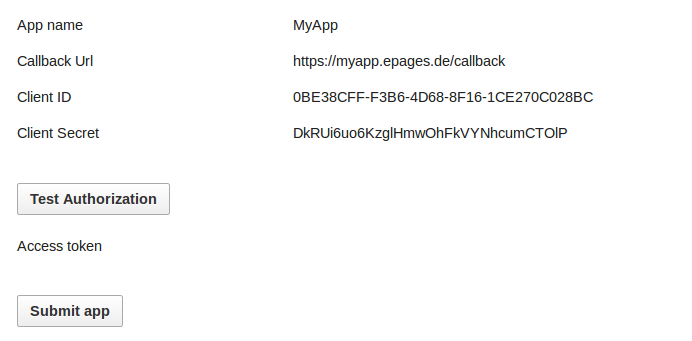
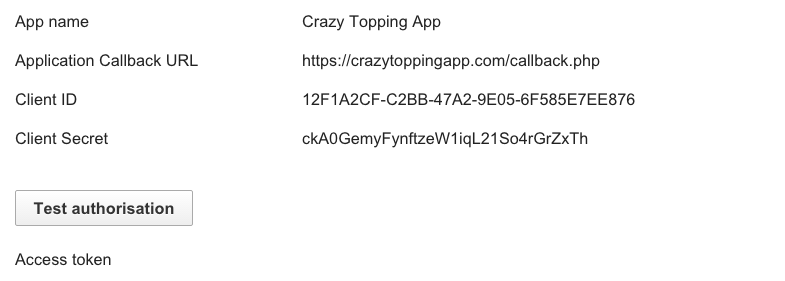
Some amendments to PHP tutorial
* TW-80
* some rewording with regards to consistency and style
* update screenshot

diff --git a/apps/app-tutorial-php.md b/apps/app-tutorial-php.md
@@ -1,120 +1,119 @@
 ---
 layout: page
 key: apps-tutorial-php
-title: App Tutorial (PHP)
+title: Tutorial (PHP)
 ---
 
-The general page about [creating an app](page:apps-create) explains some of the concepts and the basic workflow, which is required to develop an app.
-This includes the most crucial part, the Auth2 token exchange.
+The general section about [creating an app](page:apps-create) explains some of the concepts and the basic workflow required to develop an app.
+We also take care of the most crucial part, the [OAuth 2.0 token exchange](page:apps-install).
 
-On this page we are going into more detail and explain exactly how you can implement this.
-We are using PHP, but the functionality is very simple and can easily be implemented in any other language.
+With this tutorial, we are going into more detail and explain exactly how you can implement all this in practice.
+We are using PHP, but the functionality is very simple and can easily be implemented with any other coding language.
 
-You will see how the OAuth2 exchange is done to get your access token and how you can use it to make API calls.
+You will see how the OAuth 2.0 exchange is done to get your access token and how you can use it to make API calls.
 
 # Prerequisites
 
 In order to get this code working, you need to setup your development environment:
 
-- PHP 5.2+
-- publicly reachable server
+* PHP 5.2+
+* publicly reachable server
 
-### Sign up for an ePages Test Shop
+## Sign up for an ePages test shop
 
-Simply go on [our website][epages-demo-signup] and sign up for a free account.
+Simply sign up [here](http://www.epages.com/en/partner/developer-program/) for a free account.
 
-### Create a Developer App
+## Create a developer app
 
-In order to create an app, test it and submit it to the App Store, you have to create a developer app.
+In order to create an app, to test it and to submit it to the App & Theme Store, you have to create a developer app.
 
-Go to the **Developer App** section in our **Apps & Themes** Store and [create a new developer app](page:apps-create) by clicking on **Add**.
+Go to the **Developer apps** view on the tab **Apps & Themes** and [create a new developer app](page:apps-create) by clicking **Add**.
 
-After choosing a name to your liking, you need to set the callback URL to your publicly available PHP script (e.g. `https://myapp.com/callback.php`), which we will implement later.
+After choosing a name to your liking, you need to set the **Application Callback URL** to your publicly available PHP script (e.g. `https://crazytoppingapp.com/callback.php`), which we will implement later.
 
 {% callout info Note: %}
-We allow HTTP callback URLs for developer apps, but you need to provide an HTTPS URL once you want to submit the app to the App Store.
+We allow HTTP Application Callback URLs for developer apps, but you need to provide an HTTPS URL once you want to submit the app to the App & Theme Store.
 {% endcallout %}
 
-Once you are done with that, the detail page will show your **client credentials**.
+Once you are done with that, the detail page will show your client credentials.
 
 {% image developer-app-details.png %}{% endimage %}
 
-As you can see, there is no access token right away.
-You have to go through the installation process first to acquire one.
+As you can see, there is no **Access token** right away.
+You have to go through the [installation process](page:apps-install) first to acquire one.
 
-The **Test Authorisation**-Button basically simulates an installation by a user - in this case yourself.
-After the token exchange is done, you will receive an access token, which will also be displayed on this page.
+The **Test authorisation** button basically simulates an installation by a user - in this case yourself.
+After the token exchange is done, you will receive an **Access token**, which will also be displayed on this page.
 
 {% callout info Note: %}
 Any subsequent calls will uninstall the app and reinitiate the installation process, which will result in a new access token (and invalidation of the old access token).
 {% endcallout %}
 
-# Getting an Access Token
+# Getting an access token
 
-For a more general overview of the installation process and the OAuth2 token exchange, we recommend you to read the [installation page](page:apps-install) first.
+For a more general overview of the installation process and the OAuth 2.0 token exchange, we recommend you to read though the [installation process](page:apps-install) first.
 
 Now that everything is in place, we can actually start coding.
 We will create the mentioned `callback.php` file, which will be called when a user installs an app.
 
-### Setting credentials
+## Setting credentials
 
-The first thing we will do is set the client credentials you got from the developer app detail page.
+The first thing we will do is set the **client credentials** (`client_id` and `client_secret`) you got from the developer app detail page.
 
     <?php
 
     $client_id     = '0BE38CFF-F3B6-4D68-8F16-1CE270C028BC';
     $client_secret = 'DkRUi6uo6KzglHmwOhFkVYNhcumCTOlP';
 
+## Listen for callback
 
-### Listen for Callback
+Next, you need to listen for a request to get the `authorization_code`, which you can exchange for an access token.
+The call, which you can trigger with the **Test authorisation** button, will look like this:
 
-Next, you need to listen for a request to get the **authorization code**, which you can exchange for an access token.
-The call, which you can trigger with the **Test Authorization** button, will look like this:
+https://crazytoppingapp.com/callback.php?code=*{authorization_code}*&access_token_url=*{access_token_url}*&api_url=*{api_url}*
 
-https://myapp.com/callback.php?code=*{authorization_code}*&access_token_url=*{access_token_url}*&api_url=*{api_url}*
-
-You need to extract the code, *access_token_url* and *api_url* to use later on.
-We also send the *return_url* to redirect the user back to, as soon as he is done with the registration and installation.
+You need to extract the `code`, `access_token_url` and `api_url` to use later on.
+We also send the `return_url` to redirect the user back to, as soon as he is done with the registration and installation.
 
     $code             = $_GET["code"];
     $access_token_url = $_GET["access_token_url"];
     $api_url          = $_GET["api_url"];
 
 {% callout warning Note: %}
-In a production environment, you would use the *api_url* as the unique identifier for the merchant.
+In a production environment, you would use the `api_url` as the unique identifier for the merchant.
 You will also use it as the base URL for REST calls.
 {% endcallout %}
 
-### Exchange Authorization Code for Access Token
+## Exchange authorisation code for access token
 
-Now we need to exchange the **authorization code** for the **access token**.
-We will create a function called `get_token()`, which will need the *client credentials*, the *access_token_url* and the *code* and will just print the access token as a response.
+Now we need to exchange the **authorisation code** for the access token.
+We will create a function called `get_token()`, which will need the **client credentials**, the `access_token_url` and the `code` and will just print the `access_token` as a response.
 
     $access_token = get_token($access_token_url, $client_id, $client_secret, $code);
     echo $access_token;
 
 {% callout info Note: %}
-In a production environment, you would not disclose that token to anyone, not even the merchant.
+In a production environment, you would not disclose the **Access token** to anyone, not even the merchant.
 This token (depending on the scopes) has access to the merchants shop and is directly associated to your app.
 {% endcallout %}
 
 Next, we need to actually implement the `get_token()` function.
 In this function we need to:
 
-- encode the *client credentials* and *code* as `x-www-form-urlencoded`,
-- pass them as a POST request to the *access_token_url* and
-- parse the JSON response containing a single *access_token* value.
+- encode the **client credentials** and `code` as `x-www-form-urlencoded`,
+- pass them as a `POST` request to the `access_token_url` and
+- parse the JSON response containing a single `access_token` value.
 
-The encoded *client_id*, *client_secret* and *code* are assigned to `$post_content`.
+The encoded `client_id`, `client_secret` and `code` are assigned to `$post_content`.
 
 After that, we set the necessary request options for `curl`:
 
 - the URL,
 - the HTTP method,
-- the *Content-Type*-Header and the
+- the Content-Type-Header and the
 - request body.
 
-After a successful request, we receive a JSON-encoded response and return the extracted access token.
+After a successful request, we receive a JSON-encoded response and return the extracted **Access token**.
 
     function get_token($url, $client_id, $client_secret, $code)
     {
@@ -143,13 +142,12 @@ After a successful request, we receive a JSON-encoded response and return the ex
     }
     ?>
 
-
 # Use the API
 
 After you have successfully received the access token, you can use it to make requests to the API.
-You construct the available resource URL by taking the *api_url* and appending the resource you want to call.
+You construct the available resource URL by taking the `api_url` and appending the resource you want to call.
 
-If you want to list the products, you can make a simple GET request to the *products* endpoint.
+If you want to list the products, you can make a simple `GET` request to the **products** endpoint.
 We are using the command line tool `curl` in this example:
 
     curl -XGET {api_url}/products
@@ -186,9 +184,7 @@ The response will look something like this:
       ]
     }
 
-
 An overview of our available resources are listed in the [API reference](page:api-resources-all).
-
 
 You can find the code in our [GitHub repository][github-demo-app-php].
 
